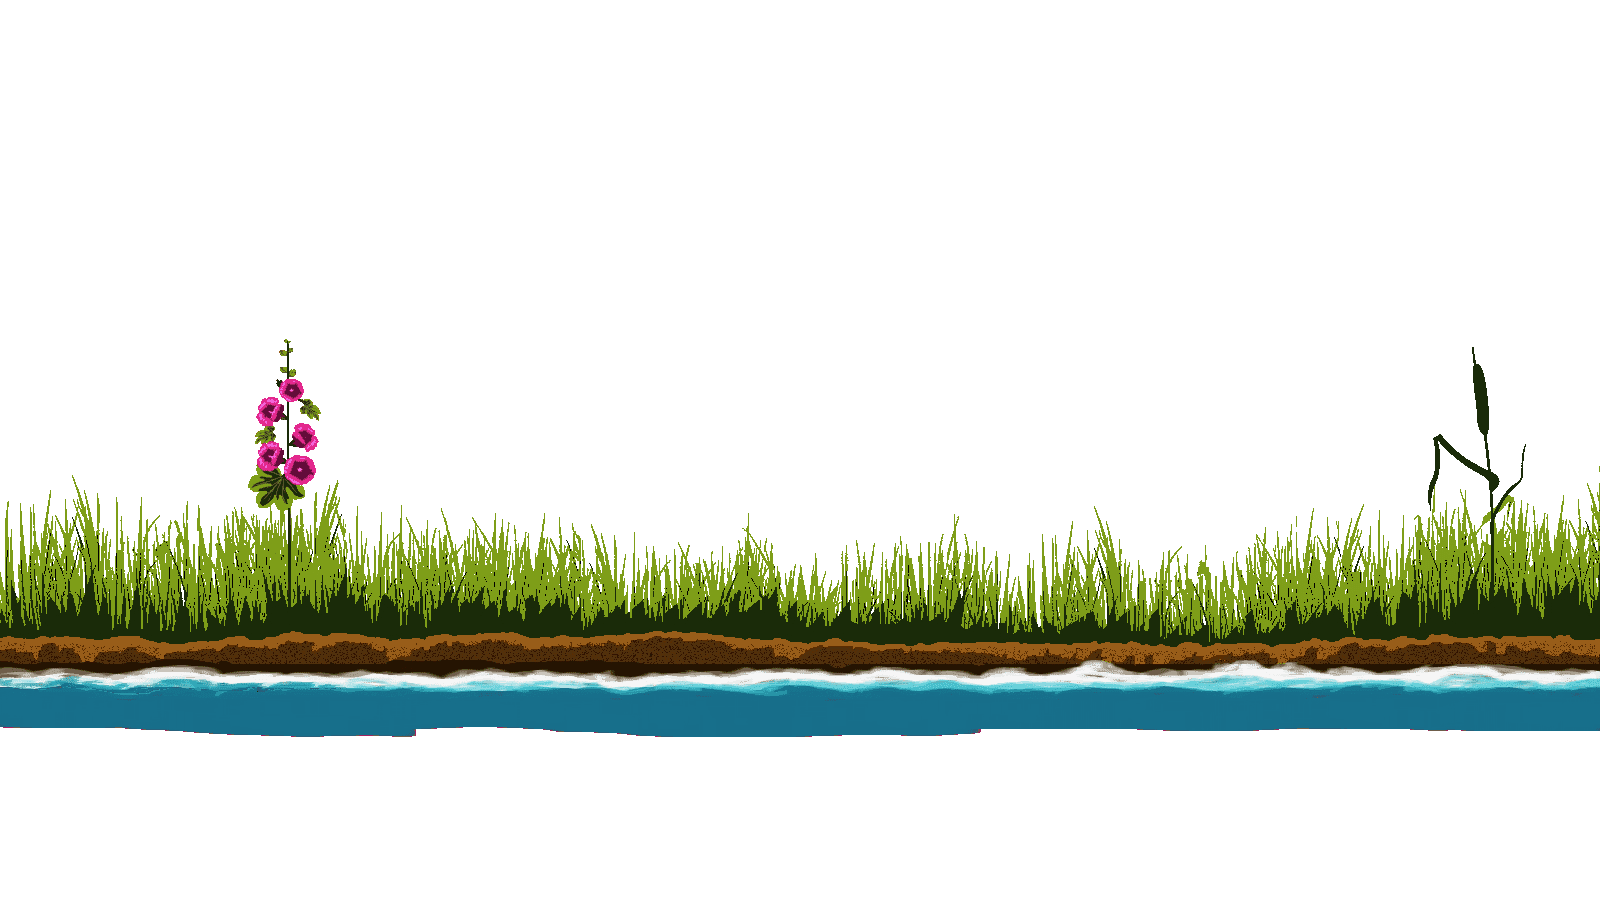
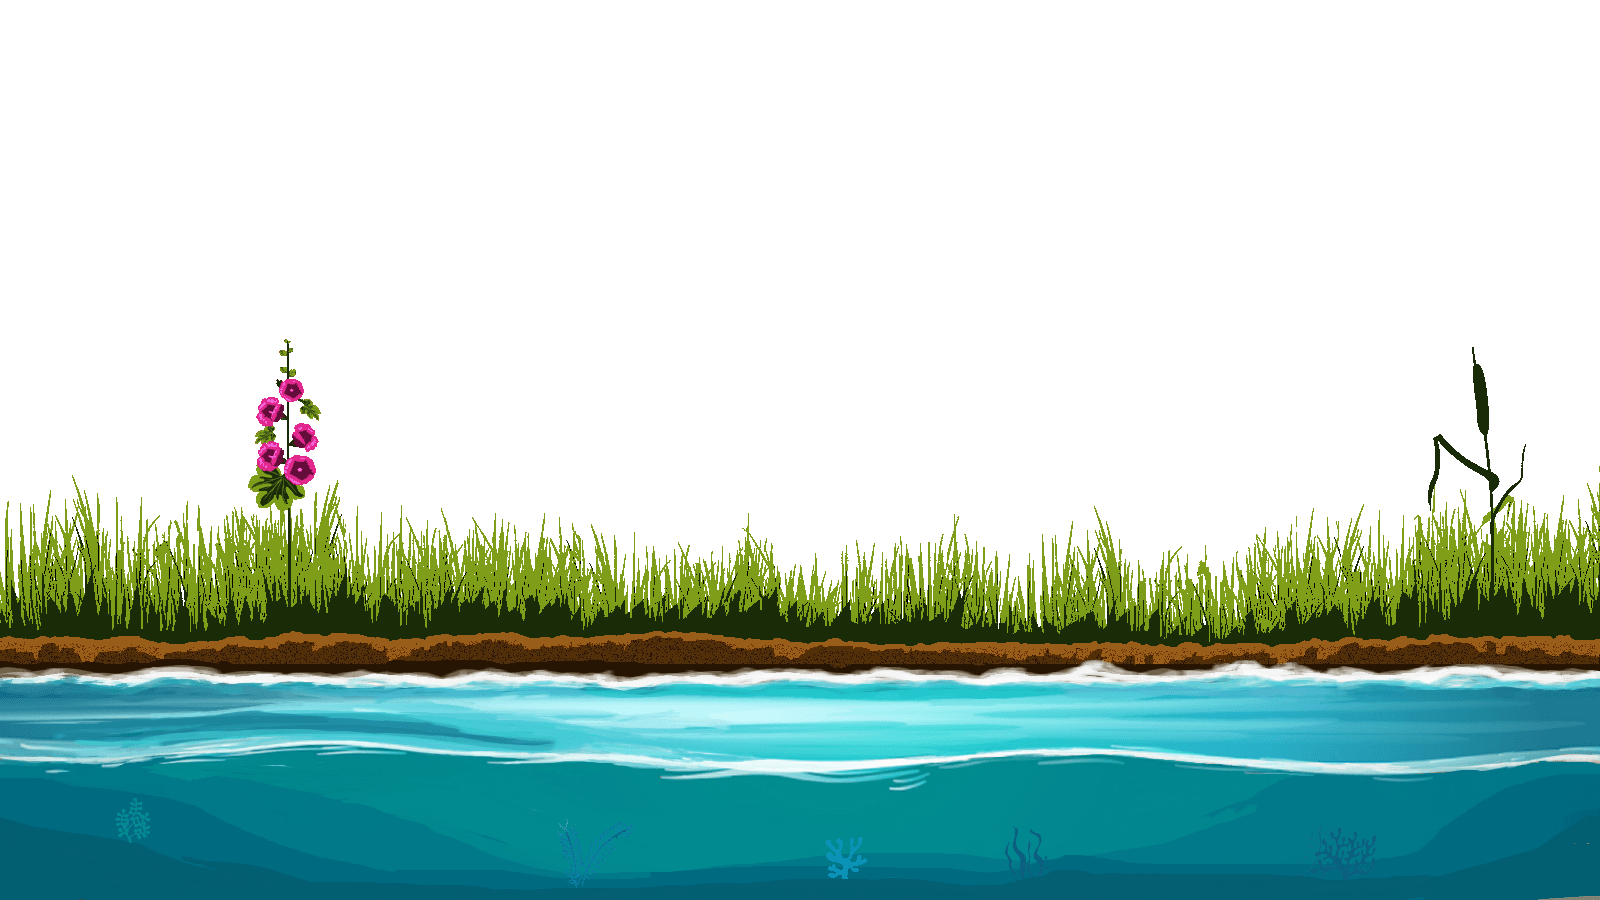
water parallax

Changed region(s): [[0.0, 0.7467, 1.0, 1.0], [0.1562, 0.5289, 0.1875, 0.56]]

diff --git a/index.html b/index.html
@@ -102,7 +102,7 @@
             <img src="img/parallax/plants.png" alt="Illustration herbe" id="plants">
             <img src="img/parallax/butterflies.png" alt="Illustration papillons" id="butterflies">
             <img src="img/parallax/butterflies1.png" alt="Illustration papillons" id="butterflies1">
-            <img src="img/parallax/water.png" alt="Illustration marais" id="water">           
+                  
             <img src="img/parallax/turtle.png" alt="Illustration tortues" id="turtle">
             <img src="img/parallax/fish.png" alt="Illustration poissons" id="fish">
             <img src="img/parallax/parallax1.png" alt="Illustration déchets aquatiques" id="piles1">

diff --git a/index.js b/index.js
@@ -12,7 +12,7 @@ let turtle = document.getElementById('turtle');
 let fish = document.getElementById('fish');
 let piles1 = document.getElementById('piles1');
 let piles2 = document.getElementById('piles2');
-let water = document.getElementById('water');
+
 
 window.addEventListener('scroll', () => {
  let value = window.scrollY;
